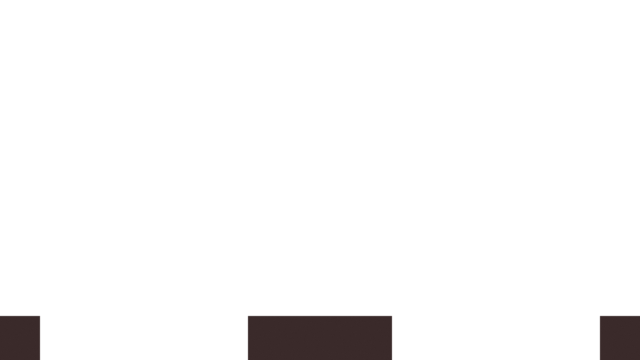
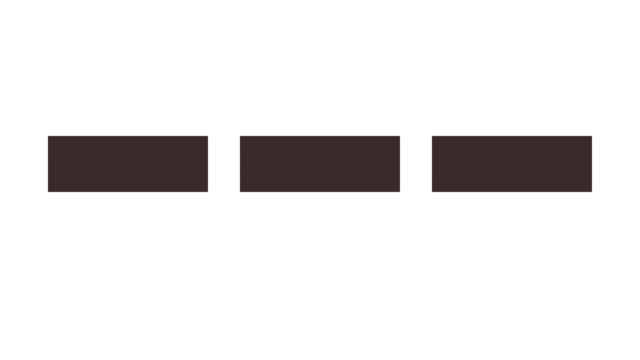
M3 : fond coques recadré dans le cadre visible ; entrée 15 du poisson à image propre ; script construire_creature.sh

diff --git a/art/source/blender/tortue_de_corail.py b/art/source/blender/tortue_de_corail.py
@@ -90,7 +90,7 @@ def animer(p):
         t = 2.0 * math.pi * (f - 1) / 8.0
         ob.cle(pa, f, rot=(0.0, 0.55 * math.sin(t), 0.0))
         ob.cle(par, f, rot=(0.0, 0.55 * math.sin(t + math.pi), 0.0))
-        ob.cle(corps, f, rot=(0.0, 0.0, 0.0), loc=(0.0, 0.0, 0.02 + 0.015 * math.sin(t)))
+        ob.cle(corps, f, rot=(0.0, 0.0, 0.0), loc=(0.0, 0.0, 0.02 + 0.05 * math.sin(t)))
         ob.cle(tete, f, rot=(0.0, 0.0, 0.0))
     # attaque : la tête se relève et s'avance, les palmes avant s'écartent
     for f, rt, ra in ((9, -0.25, -0.45), (10, -0.45, -0.75), (11, -0.40, -0.70), (12, -0.20, -0.40)):

diff --git a/art/source/blender/fond_coques_loin.py b/art/source/blender/fond_coques_loin.py
@@ -23,8 +23,8 @@ LARGEUR_CADRE = 4.0
 
 def construire():
     m_bois = ob.materiau("fond_coque", "ocre", bandes=(0, 0, 1, 1), rugosite=0.8)
-    for k, x in enumerate((-2.2, 0.0, 2.2)):
-        ob.cube((x, 2.0, -1.0), 1.0, m_bois, echelle=(0.9, 0.25, 0.3), nom=f"coque_{k + 1}")
+    for k, x in enumerate((-1.2, 0.0, 1.2)):
+        ob.cube((x, 2.0, 0.1), 1.0, m_bois, echelle=(1.0, 0.3, 0.35), nom=f"coque_{k + 1}")
 
 
 
